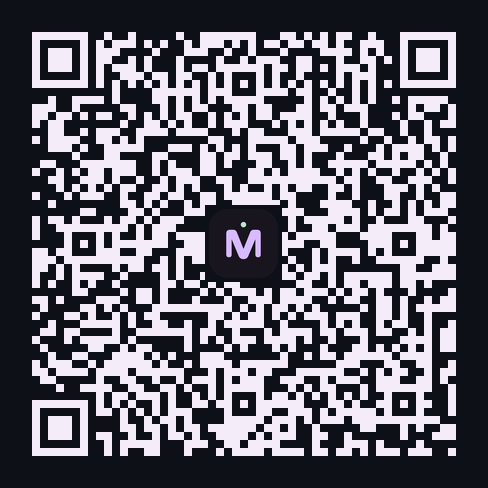
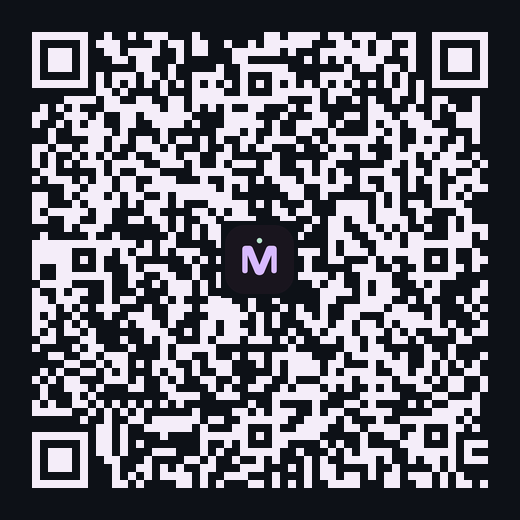
fix: open F-Droid from install links and QR codes
Use fdroid.link for GitHub README links and fdroidrepos deep links for website links and QR codes. Point the README Arch Linux badge to its installation section.

diff --git a/website/index.html b/website/index.html
@@ -76,11 +76,11 @@
           <p>Add our F-Droid repository, use Obtainium, or install the APK from GitHub.</p>
           <div class="platform-body">
             <div class="links">
-              <a class="button primary" href="https://manida.d3sox.me/fdroid/repo?fingerprint=FDEBFCB9DD790730FE607ACB8340588A839C44D9EA5BA6671AB3FAB83952F94B"><svg class="icon" aria-hidden="true" focusable="false"><use href="assets/icons.svg#fdroid"/></svg>Add to F-Droid</a>
+              <a class="button primary" href="fdroidrepos://manida.d3sox.me/fdroid/repo?fingerprint=FDEBFCB9DD790730FE607ACB8340588A839C44D9EA5BA6671AB3FAB83952F94B"><svg class="icon" aria-hidden="true" focusable="false"><use href="assets/icons.svg#fdroid"/></svg>Add to F-Droid</a>
               <a class="button quiet" href="https://apps.obtainium.imranr.dev/redirect?r=obtainium://app/%7B%22id%22%3A%22me.d3sox.manida%22%2C%22url%22%3A%22https%3A%2F%2Fgithub.com%2FD3SOX%2FManida%22%2C%22author%22%3A%22D3SOX%22%2C%22name%22%3A%22Manida%22%2C%22additionalSettings%22%3A%22%7B%5C%22includePrereleases%5C%22%3Atrue%2C%5C%22filterReleaseTitlesByRegEx%5C%22%3A%5C%22%5EManida%20%5B0-9%5D%2B%5B.%5D%5B0-9%5D%2B%5B.%5D%5B0-9%5D%2B%24%5C%22%7D%22%7D"><svg class="icon" aria-hidden="true" focusable="false"><use href="assets/icons.svg#obtainium"/></svg>Install with Obtainium</a>
               <a class="text-link" href="https://github.com/D3SOX/Manida/releases"><svg class="icon" aria-hidden="true" focusable="false"><use href="assets/icons.svg#download"/></svg>Download an APK</a>
             </div>
-            <a class="qr" href="https://manida.d3sox.me/fdroid/repo?fingerprint=FDEBFCB9DD790730FE607ACB8340588A839C44D9EA5BA6671AB3FAB83952F94B"><picture><source media="(prefers-color-scheme: dark)" srcset="assets/fdroid-qr-dark.png"><img src="assets/fdroid-qr-light.png" alt="Scan this QR code in F-Droid to add Manida's signed repository" width="280" height="280" loading="lazy"></picture></a>
+            <a class="qr" href="fdroidrepos://manida.d3sox.me/fdroid/repo?fingerprint=FDEBFCB9DD790730FE607ACB8340588A839C44D9EA5BA6671AB3FAB83952F94B"><picture><source media="(prefers-color-scheme: dark)" srcset="assets/fdroid-qr-dark.png"><img src="assets/fdroid-qr-light.png" alt="Scan this QR code in F-Droid to add Manida's signed repository" width="280" height="280" loading="lazy"></picture></a>
           </div>
           <details><summary><svg class="icon" aria-hidden="true" focusable="false"><use href="assets/icons.svg#expand_more"/></svg>Add the F-Droid repository manually</summary><p>Paste this into F-Droid's repository field:</p><div class="code-block" data-copy-label="Copy F-Droid repository URL"><pre><code><span class="s">https://manida.d3sox.me/fdroid/repo?fingerprint=FDEBFCB9DD790730FE607ACB8340588A839C44D9EA5BA6671AB3FAB83952F94B</span></code></pre></div></details>
         </article>

diff --git a/scripts/test-fdroid-repository.py b/scripts/test-fdroid-repository.py
@@ -7,7 +7,7 @@ import shutil
 import tempfile
 import unittest
 
-from PIL import Image
+from PIL import Image, ImageOps
 from pyzbar.pyzbar import decode
 
 ROOT = Path(__file__).resolve().parent.parent
@@ -38,11 +38,14 @@ class FdroidRepositoryTest(unittest.TestCase):
                 repository.verify_repository(copy)
 
     def test_the_branded_qr_pins_the_repository_key_at_readme_size(self):
-        expected = repository.REPO_URL + "?fingerprint=" + repository.fingerprint()
-        for size in [488, 280]:
-            with self.subTest(size=size):
-                image = Image.open(ROOT / "packaging/fdroid-qr.png").resize((size, size), Image.Resampling.NEAREST)
-                self.assertEqual([expected], [code.data.decode() for code in decode(image)])
+        expected = repository.REPO_DEEP_LINK + "?fingerprint=" + repository.fingerprint()
+        for name in ["fdroid-qr.png", "fdroid-qr-light.png", "fdroid-qr-dark.png"]:
+            for size in [520, 280]:
+                with self.subTest(name=name, size=size):
+                    image = Image.open(ROOT / "packaging" / name).resize((size, size), Image.Resampling.NEAREST)
+                    if name == "fdroid-qr-dark.png":
+                        image = ImageOps.invert(image)
+                    self.assertEqual([expected], [code.data.decode() for code in decode(image)])
 
 
 if __name__ == "__main__":

diff --git a/scripts/package-fdroid.py b/scripts/package-fdroid.py
@@ -17,6 +17,7 @@ from loguru import logger
 
 ROOT = Path(__file__).resolve().parent.parent
 REPO_URL = "https://manida.d3sox.me/fdroid/repo"
+REPO_DEEP_LINK = "fdroidrepos://manida.d3sox.me/fdroid/repo"
 APP_ID = "me.d3sox.manida"
 
 
@@ -94,8 +95,8 @@ def repository(apk: Path, output: Path, keystore: Path):
 <title>Manida F-Droid repository</title>
 <style>body{{font:18px system-ui;line-height:1.6;max-width:48rem;margin:3rem auto;padding:0 1rem;background:#19151e;color:#f4edf9}}a{{color:#d8baff}}code{{overflow-wrap:anywhere}}</style>
 <h1>Manida for Android</h1><p>Manida is in alpha. Add this repository to F-Droid for signed releases and updates.</p>
-<p><a href="{REPO_URL}?fingerprint={fingerprint}">Add the Manida repository to F-Droid</a></p>
-<a href="{REPO_URL}?fingerprint={fingerprint}"><img src="fdroid-qr.png" width="280" height="280" alt="Scan to add Manida to F-Droid"></a>
+<p><a href="{REPO_DEEP_LINK}?fingerprint={fingerprint}">Add the Manida repository to F-Droid</a></p>
+<a href="{REPO_DEEP_LINK}?fingerprint={fingerprint}"><img src="fdroid-qr.png" width="280" height="280" alt="Scan to add Manida to F-Droid"></a>
 <p>Repository: <code>{REPO_URL}</code><br>SHA-256 fingerprint: <code>{fingerprint}</code></p>
 <p><a href="https://github.com/D3SOX/Manida#android">APK downloads and Obtainium</a> · <a href="/">Linux installation</a></p>
 </html>''')

diff --git a/README.md b/README.md
@@ -7,7 +7,7 @@
       <img src="https://manida-badges.withered-flower-f0f2.workers.dev/github-light.svg" alt="Download Manida from GitHub Releases" width="158" height="52">
     </picture>
   </a>&nbsp;
-  <a href="https://manida.d3sox.me/fdroid/repo?fingerprint=FDEBFCB9DD790730FE607ACB8340588A839C44D9EA5BA6671AB3FAB83952F94B">
+  <a href="https://fdroid.link/#https://manida.d3sox.me/fdroid/repo?fingerprint=FDEBFCB9DD790730FE607ACB8340588A839C44D9EA5BA6671AB3FAB83952F94B">
     <picture>
       <source media="(prefers-color-scheme: dark)" srcset="https://manida-badges.withered-flower-f0f2.workers.dev/fdroid-dark.svg">
       <img src="https://manida-badges.withered-flower-f0f2.workers.dev/fdroid-light.svg" alt="Add Manida&#x27;s F-Droid repository" width="158" height="52">
@@ -19,7 +19,7 @@
       <img src="https://manida-badges.withered-flower-f0f2.workers.dev/obtainium-light.svg" alt="Install Manida with Obtainium" width="158" height="52">
     </picture>
   </a>&nbsp;
-  <a href="https://manida.d3sox.me">
+  <a href="#arch-linux">
     <picture>
       <source media="(prefers-color-scheme: dark)" srcset="https://manida-badges.withered-flower-f0f2.workers.dev/archlinux-dark.svg">
       <img src="https://manida-badges.withered-flower-f0f2.workers.dev/archlinux-light.svg" alt="Add Manida&#x27;s Arch Linux repository" width="158" height="52">
@@ -76,7 +76,7 @@ Download an APK from [GitHub Releases](https://github.com/D3SOX/Manida/releases)
 Scan this QR code in F-Droid to add the repository with its signing fingerprint:
 
 <p align="center">
-<a href="https://manida.d3sox.me/fdroid/repo?fingerprint=FDEBFCB9DD790730FE607ACB8340588A839C44D9EA5BA6671AB3FAB83952F94B">
+<a href="https://fdroid.link/#https://manida.d3sox.me/fdroid/repo?fingerprint=FDEBFCB9DD790730FE607ACB8340588A839C44D9EA5BA6671AB3FAB83952F94B">
   <picture>
     <source media="(prefers-color-scheme: dark)" srcset="packaging/fdroid-qr-dark.png">
     <source media="(prefers-color-scheme: light)" srcset="packaging/fdroid-qr-light.png">
@@ -219,5 +219,5 @@ The bundled presets and textures retain their upstream authorship and notices, i
 
 The README badges use [Simple Icons](https://simpleicons.org/) and [Roboto](https://github.com/googlefonts/roboto-classic) lettering rendered as SVG paths.
 
-[fdroid-repository]: https://manida.d3sox.me/fdroid/repo?fingerprint=FDEBFCB9DD790730FE607ACB8340588A839C44D9EA5BA6671AB3FAB83952F94B
+[fdroid-repository]: https://fdroid.link/#https://manida.d3sox.me/fdroid/repo?fingerprint=FDEBFCB9DD790730FE607ACB8340588A839C44D9EA5BA6671AB3FAB83952F94B
 [obtainium-install]: https://apps.obtainium.imranr.dev/redirect?r=obtainium://app/%7B%22id%22%3A%22me.d3sox.manida%22%2C%22url%22%3A%22https%3A%2F%2Fgithub.com%2FD3SOX%2FManida%22%2C%22author%22%3A%22D3SOX%22%2C%22name%22%3A%22Manida%22%2C%22additionalSettings%22%3A%22%7B%5C%22includePrereleases%5C%22%3Atrue%2C%5C%22filterReleaseTitlesByRegEx%5C%22%3A%5C%22%5EManida%20%5B0-9%5D%2B%5B.%5D%5B0-9%5D%2B%5B.%5D%5B0-9%5D%2B%24%5C%22%7D%22%7D
